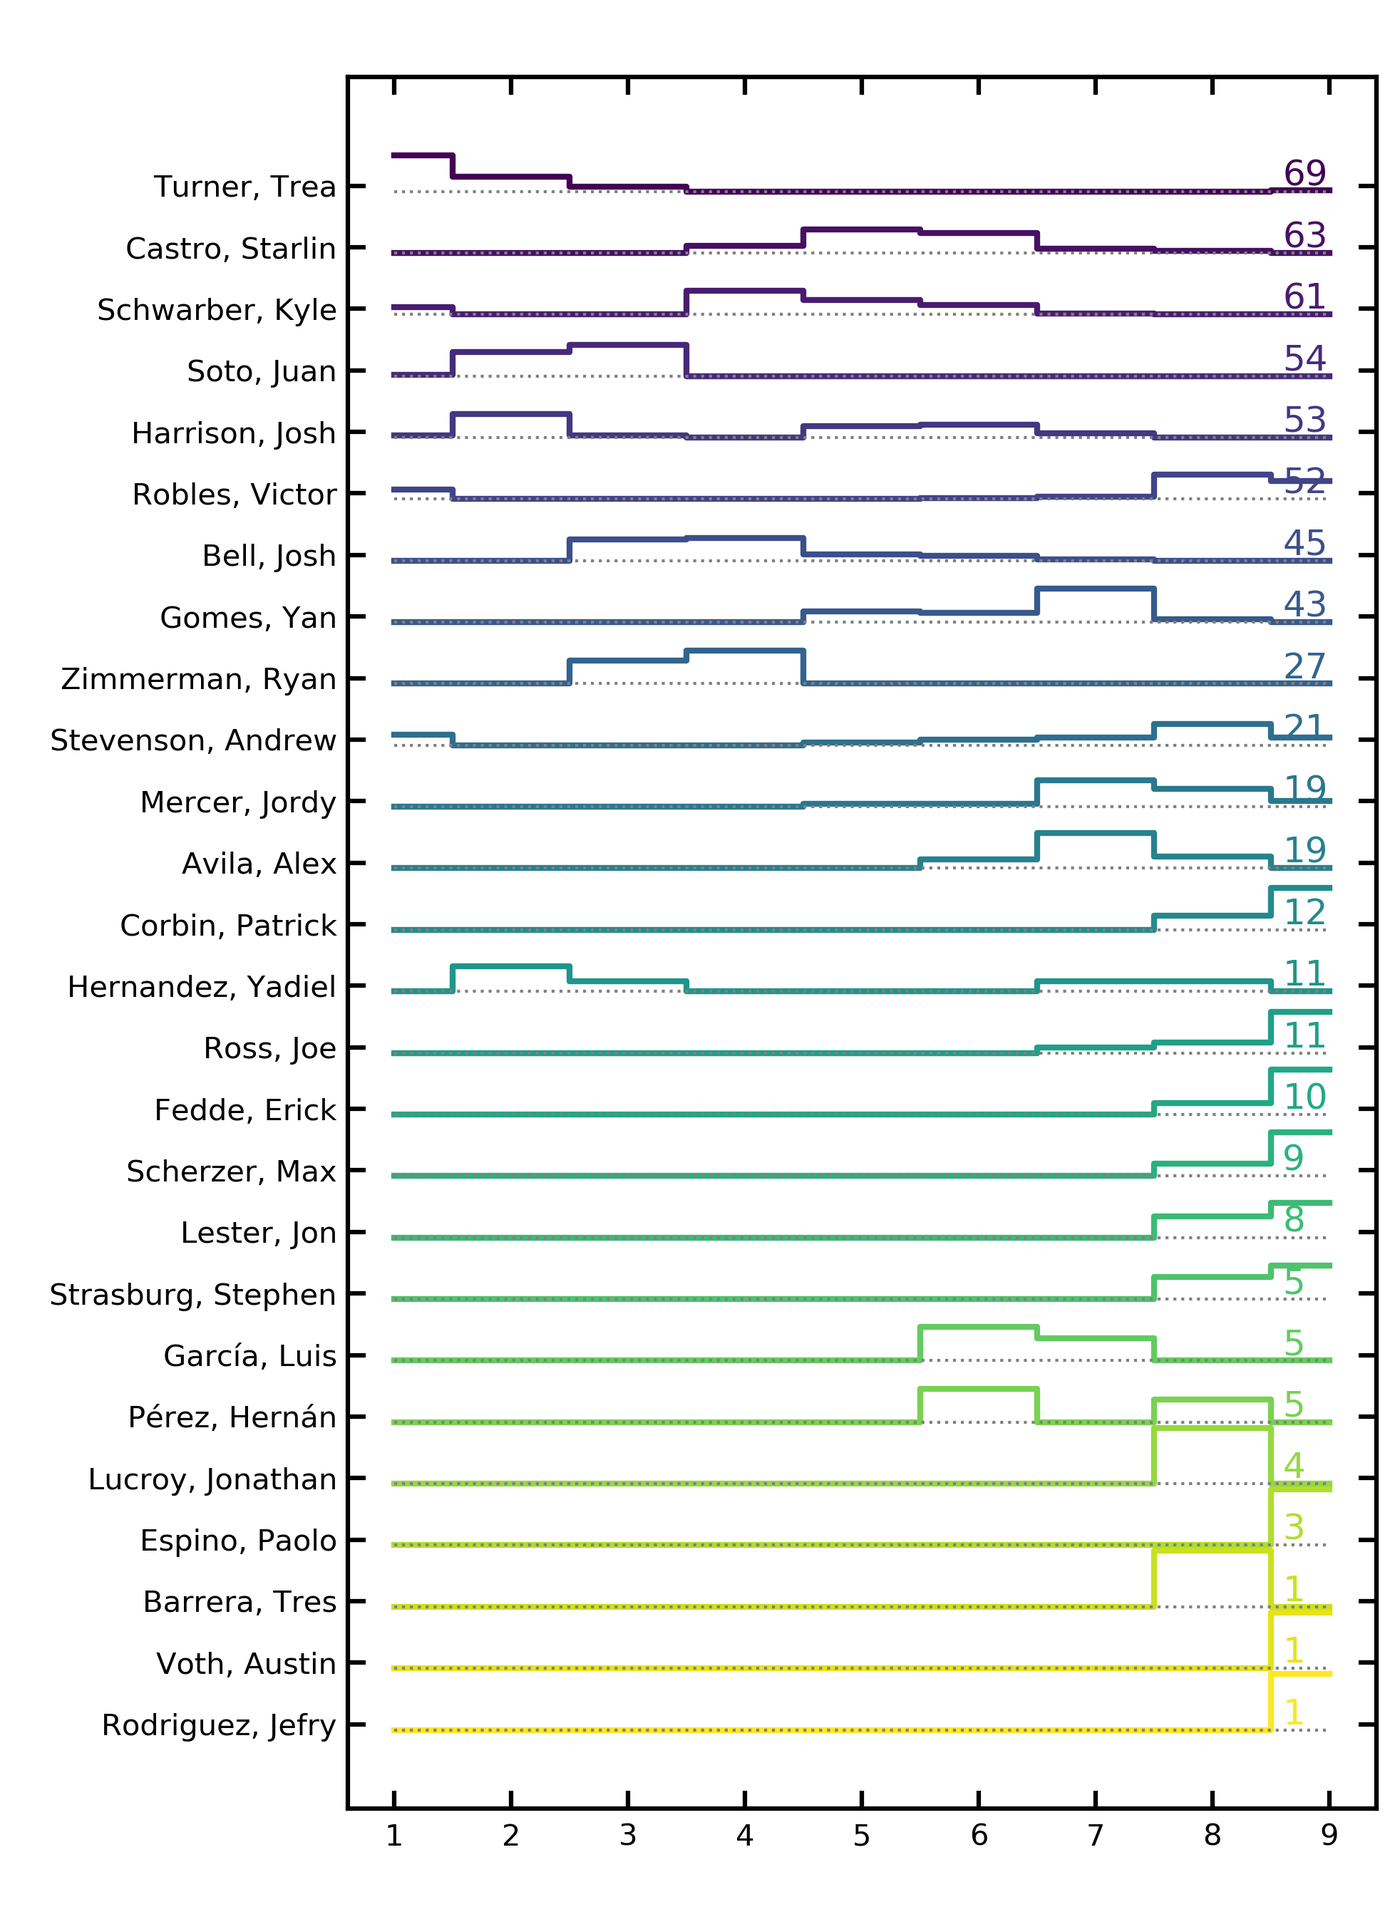
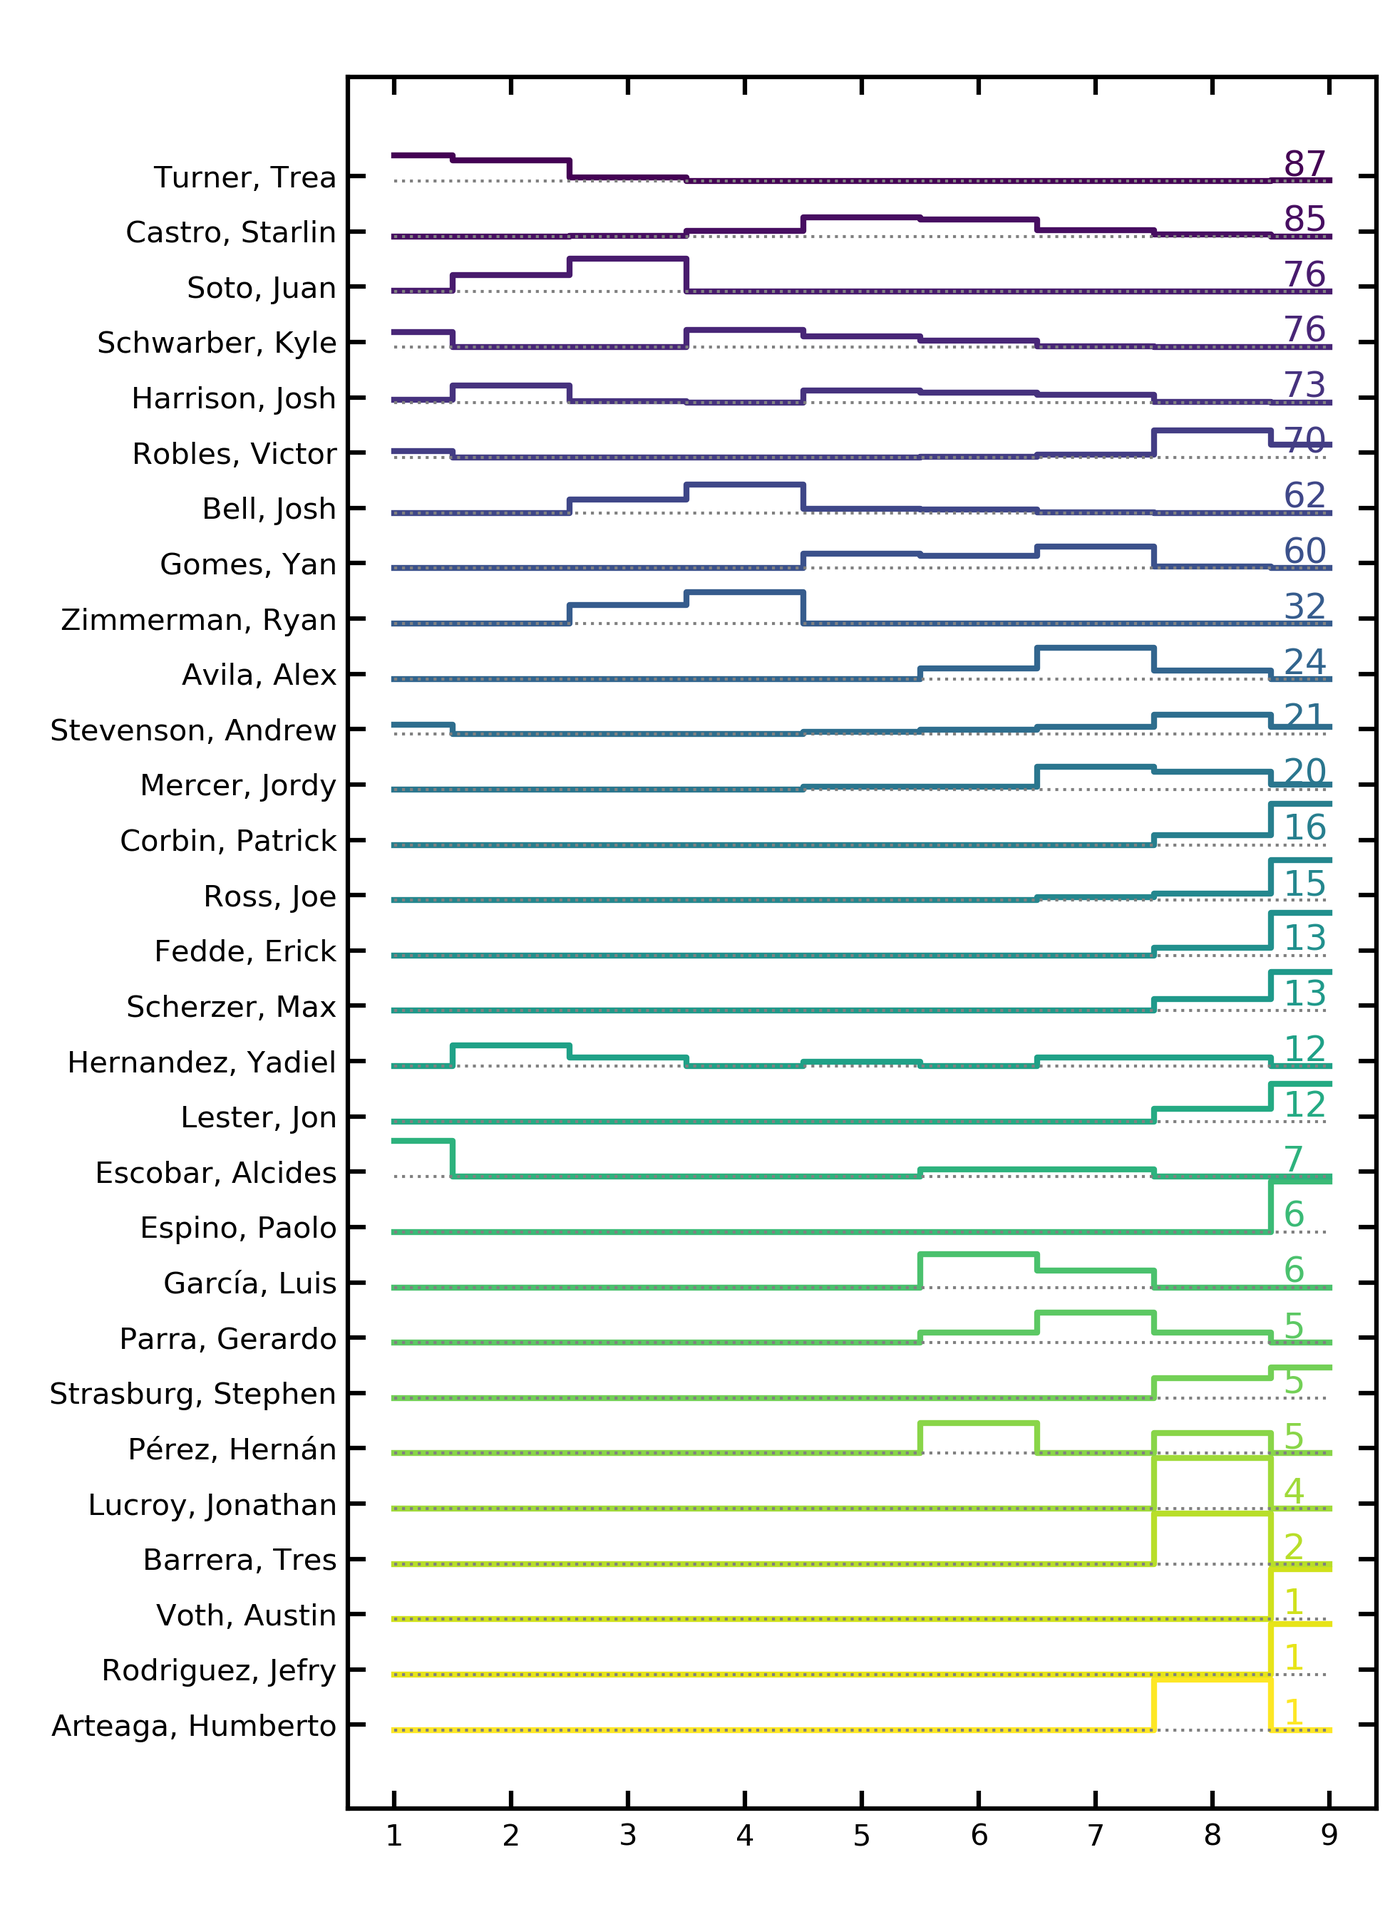
update order calculation

Changed region(s): [[0.0308, 0.0622, 0.9846, 0.9022]]

diff --git a/Lineups/lineup2021.html b/Lineups/lineup2021.html
@@ -26,36 +26,36 @@ document.querySelectorAll('th').forEach(th => th.addEventListener('click', (() =
   <p>For each team, what is the "typical" 2021 lineup?</p>
 <table id="customers">
 <tr><th>Team</th><th>1st</th><th>2nd</th><th>3rd</th><th>4th</th><th>5th</th><th>6th</th><th>7th</th><th>8th</th><th>9th</th><th>Similarity</th><th>First Appeared</th></tr>
-<tr><td><a href="figures/2021LAAorder.png">LAA</a></td><td>Fletcher, David</td><td>Ohtani, Shohei</td><td>Trout, Mike</td><td>Rendon, Anthony</td><td>Walsh, Jared</td><td>Upton, Justin</td><td>Iglesias, José</td><td>Suzuki, Kurt</td><td>Fowler, Dexter</td><td>2.52</td><td>3</td></tr>
-<tr><td><a href="figures/2021HOUorder.png">HOU</a></td><td>Altuve, Jose</td><td>Brantley, Michael</td><td>Bregman, Alex</td><td>Alvarez, Yordan</td><td>Gurriel, Yuli</td><td>Correa, Carlos</td><td>Tucker, Kyle</td><td>Straw, Myles</td><td>Maldonado, Martín</td><td>4.37</td><td>8</td></tr>
-<tr><td><a href="figures/2021OAKorder.png">OAK</a></td><td>Canha, Mark</td><td>Laureano, Ramón</td><td>Olson, Matt</td><td>Murphy, Sean</td><td>Chapman, Matt</td><td>Lowrie, Jed</td><td>Piscotty, Stephen</td><td>Andrus, Elvis</td><td>Kemp, Tony</td><td>2.59</td><td>34</td></tr>
-<tr><td><a href="figures/2021TORorder.png">TOR</a></td><td>Semien, Marcus</td><td>Bichette, Bo</td><td>Guerrero Jr., Vladimir</td><td>Hernández, Teoscar</td><td>Grichuk, Randal</td><td>Gurriel Jr., Lourdes</td><td>Panik, Joe</td><td>Espinal, Santiago</td><td>Jansen, Danny</td><td>4.53</td><td>51</td></tr>
-<tr><td><a href="figures/2021ATLorder.png">ATL</a></td><td>Acuña Jr., Ronald</td><td>Freeman, Freddie</td><td>Ozuna, Marcell</td><td>Albies, Ozzie</td><td>Riley, Austin</td><td>Swanson, Dansby</td><td>Contreras, William</td><td>Heredia, Guillermo</td><td>Fried, Max</td><td>3.52</td><td>48</td></tr>
-<tr><td><a href="figures/2021MILorder.png">MIL</a></td><td>Wong, Kolten</td><td>Vogelbach, Daniel</td><td>Yelich, Christian</td><td>García, Avisaíl</td><td>Narváez, Omar</td><td>Shaw, Travis</td><td>Adames, Willy</td><td>Bradley Jr., Jackie</td><td>Woodruff, Brandon</td><td>1.83</td><td>54</td></tr>
-<tr><td><a href="figures/2021STLorder.png">STL</a></td><td>Edman, Tommy</td><td>Carlson, Dylan</td><td>Goldschmidt, Paul</td><td>Arenado, Nolan</td><td>Molina, Yadier</td><td>O'Neill, Tyler</td><td>Sosa, Edmundo</td><td>Williams, Justin</td><td>Wainwright, Adam</td><td>3.56</td><td>54</td></tr>
-<tr><td><a href="figures/2021CHCorder.png">CHC</a></td><td>Pederson, Joc</td><td>Bryant, Kris</td><td>Báez, Javier</td><td>Rizzo, Anthony</td><td>Contreras, Willson</td><td>Heyward, Jason</td><td>Bote, David</td><td>Sogard, Eric</td><td>Williams, Trevor</td><td>2.06</td><td>34</td></tr>
-<tr><td><a href="figures/2021ARIorder.png">ARI</a></td><td>Rojas, Josh</td><td>Marte, Ketel</td><td>Escobar, Eduardo</td><td>Peralta, David</td><td>Smith, Pavin</td><td>Reddick, Josh</td><td>Ahmed, Nick</td><td>Vogt, Stephen</td><td>Kelly, Merrill</td><td>1.96</td><td>59</td></tr>
-<tr><td><a href="figures/2021LADorder.png">LAD</a></td><td>Betts, Mookie</td><td>Seager, Corey</td><td>Turner, Justin</td><td>Muncy, Max</td><td>Smith, Will</td><td>Taylor, Chris</td><td>Beaty, Matt</td><td>Lux, Gavin</td><td>Buehler, Walker</td><td>2.7</td><td>32</td></tr>
-<tr><td><a href="figures/2021SForder.png">SF</a></td><td>Tauchman, Mike</td><td>Yastrzemski, Mike</td><td>Posey, Buster</td><td>Belt, Brandon</td><td>Longoria, Evan</td><td>Crawford, Brandon</td><td>Flores, Wilmer</td><td>Duggar, Steven</td><td>Gausman, Kevin</td><td>1.39</td><td>38</td></tr>
-<tr><td><a href="figures/2021CLEorder.png">CLE</a></td><td>Hernandez, Cesar</td><td>Rosario, Amed</td><td>Ramírez, José</td><td>Rosario, Eddie</td><td>Reyes, Franmil</td><td>Naylor, Josh</td><td>Bauers, Jake</td><td>Hedges, Austin</td><td>Giménez, Andrés</td><td>3.22</td><td>33</td></tr>
-<tr><td><a href="figures/2021SEAorder.png">SEA</a></td><td>Haniger, Mitch</td><td>France, Ty</td><td>Seager, Kyle</td><td>Lewis, Kyle</td><td>Marmolejos, José</td><td>Moore, Dylan</td><td>Trammell, Taylor</td><td>Murphy, Tom</td><td>Crawford, J.P.</td><td>2.18</td><td>27</td></tr>
-<tr><td><a href="figures/2021MIAorder.png">MIA</a></td><td>Chisholm Jr., Jazz</td><td>Rojas, Miguel</td><td>Aguilar, Jesús</td><td>Duvall, Adam</td><td>Anderson, Brian</td><td>Dickerson, Corey</td><td>León, Sandy</td><td>Sierra, Magneuris</td><td>Rogers, Trevor</td><td>2.05</td><td>47</td></tr>
-<tr><td><a href="figures/2021NYMorder.png">NYM</a></td><td>McNeil, Jeff</td><td>Lindor, Francisco</td><td>Conforto, Michael</td><td>Alonso, Pete</td><td>Smith, Dominic</td><td>Pillar, Kevin</td><td>Villar, Jonathan</td><td>McCann, James</td><td>Walker, Taijuan</td><td>2.25</td><td>28</td></tr>
-<tr><td><a href="figures/2021WSHorder.png">WSH</a></td><td>Turner, Trea</td><td>Soto, Juan</td><td>Bell, Josh</td><td>Schwarber, Kyle</td><td>Harrison, Josh</td><td>Castro, Starlin</td><td>Gomes, Yan</td><td>Robles, Victor</td><td>Ross, Joe</td><td>2.1</td><td>14</td></tr>
-<tr><td><a href="figures/2021BALorder.png">BAL</a></td><td>Mullins, Cedric</td><td>Mancini, Trey</td><td>Santander, Anthony</td><td>Mountcastle, Ryan</td><td>Hays, Austin</td><td>Galvis, Freddy</td><td>Franco, Maikel</td><td>Severino, Pedro</td><td>Valaika, Pat</td><td>2.44</td><td>62</td></tr>
-<tr><td><a href="figures/2021SDorder.png">SD</a></td><td>Pham, Tommy</td><td>Tatis Jr., Fernando</td><td>Machado, Manny</td><td>Hosmer, Eric</td><td>Myers, Wil</td><td>Cronenworth, Jake</td><td>Profar, Jurickson</td><td>Caratini, Victor</td><td>Darvish, Yu</td><td>2.13</td><td>1</td></tr>
-<tr><td><a href="figures/2021PHIorder.png">PHI</a></td><td>McCutchen, Andrew</td><td>Hoskins, Rhys</td><td>Harper, Bryce</td><td>Realmuto, J.T.</td><td>Bohm, Alec</td><td>Gregorius, Didi</td><td>Segura, Jean</td><td>Quinn, Roman</td><td>Wheeler, Zack</td><td>2.2</td><td>2</td></tr>
-<tr><td><a href="figures/2021PITorder.png">PIT</a></td><td>Frazier, Adam</td><td>Evans, Phillip</td><td>Reynolds, Bryan</td><td>Moran, Colin</td><td>González, Erik</td><td>Polanco, Gregory</td><td>Stallings, Jacob</td><td>Fowler, Dustin</td><td>Brubaker, JT</td><td>2.72</td><td>4</td></tr>
-<tr><td><a href="figures/2021TEXorder.png">TEX</a></td><td>Calhoun, Willie</td><td>Solak, Nick</td><td>Lowe, Nate</td><td>Gallo, Joey</td><td>García, Adolis</td><td>Dahl, David</td><td>Kiner-Falefa, Isiah</td><td>Culberson, Charlie</td><td>Trevino, Jose</td><td>2.01</td><td>30</td></tr>
-<tr><td><a href="figures/2021TBorder.png">TB</a></td><td>Arozarena, Randy</td><td>Margot, Manuel</td><td>Meadows, Austin</td><td>Díaz, Yandy</td><td>Brosseau, Mike</td><td>Wendle, Joey</td><td>Zunino, Mike</td><td>Adames, Willy</td><td>Phillips, Brett</td><td>1.52</td><td>34</td></tr>
-<tr><td><a href="figures/2021BOSorder.png">BOS</a></td><td>Hernández, Enrique</td><td>Verdugo, Alex</td><td>Martinez, J.D.</td><td>Bogaerts, Xander</td><td>Devers, Rafael</td><td>Vázquez, Christian</td><td>Gonzalez, Marwin</td><td>Renfroe, Hunter</td><td>Dalbec, Bobby</td><td>4.17</td><td>26</td></tr>
-<tr><td><a href="figures/2021CINorder.png">CIN</a></td><td>Winker, Jesse</td><td>Castellanos, Nick</td><td>Votto, Joey</td><td>Suárez, Eugenio</td><td>Naquin, Tyler</td><td>India, Jonathan</td><td>Barnhart, Tucker</td><td>Farmer, Kyle</td><td>Miley, Wade</td><td>1.93</td><td>18</td></tr>
-<tr><td><a href="figures/2021COLorder.png">COL</a></td><td>Tapia, Raimel</td><td>McMahon, Ryan</td><td>Story, Trevor</td><td>Blackmon, Charlie</td><td>Cron, C.J.</td><td>Daza, Yonathan</td><td>Hampson, Garrett</td><td>Nuñez, Dom</td><td>Márquez, Germán</td><td>2.26</td><td>19</td></tr>
-<tr><td><a href="figures/2021KCorder.png">KC</a></td><td>Merrifield, Whit</td><td>Santana, Carlos</td><td>Benintendi, Andrew</td><td>Perez, Salvador</td><td>Soler, Jorge</td><td>Dozier, Hunter</td><td>Gutierrez, Kelvin</td><td>Taylor, Michael A.</td><td>Lopez, Nicky</td><td>3.84</td><td>61</td></tr>
-<tr><td><a href="figures/2021DETorder.png">DET</a></td><td>Grossman, Robbie</td><td>Castro, Harold</td><td>Candelario, Jeimer</td><td>Cabrera, Miguel</td><td>Mazara, Nomar</td><td>Schoop, Jonathan</td><td>Goodrum, Niko</td><td>Castro, Willi</td><td>Rogers, Jake</td><td>2.28</td><td>35</td></tr>
-<tr><td><a href="figures/2021MINorder.png">MIN</a></td><td>Arraez, Luis</td><td>Donaldson, Josh</td><td>Cruz, Nelson</td><td>Kepler, Max</td><td>Polanco, Jorge</td><td>Larnach, Trevor</td><td>Astudillo, Willians</td><td>Simmons, Andrelton</td><td>Rortvedt, Ben</td><td>2.0</td><td>34</td></tr>
-<tr><td><a href="figures/2021CWSorder.png">CWS</a></td><td>Anderson, Tim</td><td>Eaton, Adam</td><td>Moncada, Yoán</td><td>Abreu, José</td><td>Mercedes, Yermín</td><td>Grandal, Yasmani</td><td>Vaughn, Andrew</td><td>García, Leury</td><td>Madrigal, Nick</td><td>3.26</td><td>34</td></tr>
-<tr><td><a href="figures/2021NYYorder.png">NYY</a></td><td>LeMahieu, DJ</td><td>Stanton, Giancarlo</td><td>Judge, Aaron</td><td>Urshela, Gio</td><td>Torres, Gleyber</td><td>Odor, Rougned</td><td>Andújar, Miguel</td><td>Higashioka, Kyle</td><td>Gardner, Brett</td><td>2.59</td><td>55</td></tr>
+<tr><td><a href="figures/2021LAAorder.png">LAA</a></td><td>Fletcher, David</td><td>Ohtani, Shohei</td><td>Trout, Mike</td><td>Rendon, Anthony</td><td>Walsh, Jared</td><td>Upton, Justin</td><td>Iglesias, José</td><td>Suzuki, Kurt</td><td>Fowler, Dexter</td><td>2.45</td><td>3</td></tr>
+<tr><td><a href="figures/2021HOUorder.png">HOU</a></td><td>Altuve, Jose</td><td>Brantley, Michael</td><td>Bregman, Alex</td><td>Alvarez, Yordan</td><td>Gurriel, Yuli</td><td>Correa, Carlos</td><td>Tucker, Kyle</td><td>Straw, Myles</td><td>Maldonado, Martín</td><td>3.86</td><td>8</td></tr>
+<tr><td><a href="figures/2021OAKorder.png">OAK</a></td><td>Canha, Mark</td><td>Laureano, Ramón</td><td>Olson, Matt</td><td>Murphy, Sean</td><td>Chapman, Matt</td><td>Lowrie, Jed</td><td>Piscotty, Stephen</td><td>Andrus, Elvis</td><td>Kemp, Tony</td><td>2.32</td><td>34</td></tr>
+<tr><td><a href="figures/2021TORorder.png">TOR</a></td><td>Semien, Marcus</td><td>Bichette, Bo</td><td>Guerrero Jr., Vladimir</td><td>Hernández, Teoscar</td><td>Grichuk, Randal</td><td>Biggio, Cavan</td><td>Gurriel Jr., Lourdes</td><td>Panik, Joe</td><td>McGuire, Reese</td><td>4.23</td><td>29</td></tr>
+<tr><td><a href="figures/2021ATLorder.png">ATL</a></td><td>Acuña Jr., Ronald</td><td>Freeman, Freddie</td><td>Ozuna, Marcell</td><td>Albies, Ozzie</td><td>Riley, Austin</td><td>Swanson, Dansby</td><td>Contreras, William</td><td>Heredia, Guillermo</td><td>Morton, Charlie</td><td>3.34</td><td>44</td></tr>
+<tr><td><a href="figures/2021MILorder.png">MIL</a></td><td>Wong, Kolten</td><td>Vogelbach, Daniel</td><td>Yelich, Christian</td><td>García, Avisaíl</td><td>Narváez, Omar</td><td>Adames, Willy</td><td>Urías, Luis</td><td>Bradley Jr., Jackie</td><td>Peralta, Freddy</td><td>1.66</td><td>76</td></tr>
+<tr><td><a href="figures/2021STLorder.png">STL</a></td><td>Edman, Tommy</td><td>Carlson, Dylan</td><td>Goldschmidt, Paul</td><td>Arenado, Nolan</td><td>Molina, Yadier</td><td>O'Neill, Tyler</td><td>Sosa, Edmundo</td><td>Williams, Justin</td><td>Wainwright, Adam</td><td>3.23</td><td>54</td></tr>
+<tr><td><a href="figures/2021CHCorder.png">CHC</a></td><td>Pederson, Joc</td><td>Bryant, Kris</td><td>Báez, Javier</td><td>Rizzo, Anthony</td><td>Contreras, Willson</td><td>Happ, Ian</td><td>Heyward, Jason</td><td>Alcántara, Sergio</td><td>Hendricks, Kyle</td><td>1.99</td><td>65</td></tr>
+<tr><td><a href="figures/2021ARIorder.png">ARI</a></td><td>Rojas, Josh</td><td>Marte, Ketel</td><td>Escobar, Eduardo</td><td>Peralta, David</td><td>Smith, Pavin</td><td>Reddick, Josh</td><td>Ahmed, Nick</td><td>Vogt, Stephen</td><td>Kelly, Merrill</td><td>1.89</td><td>59</td></tr>
+<tr><td><a href="figures/2021LADorder.png">LAD</a></td><td>Betts, Mookie</td><td>Seager, Corey</td><td>Turner, Justin</td><td>Bellinger, Cody</td><td>Muncy, Max</td><td>Taylor, Chris</td><td>Lux, Gavin</td><td>Barnes, Austin</td><td>Kershaw, Clayton</td><td>2.68</td><td>1</td></tr>
+<tr><td><a href="figures/2021SForder.png">SF</a></td><td>Wade Jr, LaMonte</td><td>Yastrzemski, Mike</td><td>Posey, Buster</td><td>Belt, Brandon</td><td>Crawford, Brandon</td><td>Flores, Wilmer</td><td>Duggar, Steven</td><td>Vosler, Jason</td><td>Cueto, Johnny</td><td>1.38</td><td>71</td></tr>
+<tr><td><a href="figures/2021CLEorder.png">CLE</a></td><td>Hernandez, Cesar</td><td>Rosario, Amed</td><td>Ramírez, José</td><td>Rosario, Eddie</td><td>Reyes, Franmil</td><td>Naylor, Josh</td><td>Bauers, Jake</td><td>Hedges, Austin</td><td>Giménez, Andrés</td><td>2.94</td><td>33</td></tr>
+<tr><td><a href="figures/2021SEAorder.png">SEA</a></td><td>Crawford, J.P.</td><td>Haniger, Mitch</td><td>Seager, Kyle</td><td>France, Ty</td><td>Fraley, Jake</td><td>Moore, Dylan</td><td>Bauers, Jake</td><td>Murphy, Tom</td><td>Trammell, Taylor</td><td>2.23</td><td>66</td></tr>
+<tr><td><a href="figures/2021MIAorder.png">MIA</a></td><td>Chisholm Jr., Jazz</td><td>Marte, Starling</td><td>Aguilar, Jesús</td><td>Duvall, Adam</td><td>Rojas, Miguel</td><td>Sánchez, Jesús</td><td>Alfaro, Jorge</td><td>Berti, Jon</td><td>Rogers, Trevor</td><td>2.15</td><td>74</td></tr>
+<tr><td><a href="figures/2021NYMorder.png">NYM</a></td><td>McNeil, Jeff</td><td>Lindor, Francisco</td><td>Conforto, Michael</td><td>Alonso, Pete</td><td>Smith, Dominic</td><td>Pillar, Kevin</td><td>Villar, Jonathan</td><td>McCann, James</td><td>Walker, Taijuan</td><td>2.46</td><td>28</td></tr>
+<tr><td><a href="figures/2021WSHorder.png">WSH</a></td><td>Turner, Trea</td><td>Harrison, Josh</td><td>Soto, Juan</td><td>Bell, Josh</td><td>Schwarber, Kyle</td><td>Castro, Starlin</td><td>Avila, Alex</td><td>Robles, Victor</td><td>Ross, Joe</td><td>2.1</td><td>56</td></tr>
+<tr><td><a href="figures/2021BALorder.png">BAL</a></td><td>Mullins, Cedric</td><td>Mancini, Trey</td><td>Santander, Anthony</td><td>Mountcastle, Ryan</td><td>Hays, Austin</td><td>Galvis, Freddy</td><td>Franco, Maikel</td><td>Severino, Pedro</td><td>Valaika, Pat</td><td>2.45</td><td>62</td></tr>
+<tr><td><a href="figures/2021SDorder.png">SD</a></td><td>Pham, Tommy</td><td>Machado, Manny</td><td>Cronenworth, Jake</td><td>Tatis Jr., Fernando</td><td>Hosmer, Eric</td><td>Myers, Wil</td><td>Profar, Jurickson</td><td>Caratini, Victor</td><td>Paddack, Chris</td><td>2.22</td><td>56</td></tr>
+<tr><td><a href="figures/2021PHIorder.png">PHI</a></td><td>McCutchen, Andrew</td><td>Hoskins, Rhys</td><td>Harper, Bryce</td><td>Realmuto, J.T.</td><td>Bohm, Alec</td><td>Gregorius, Didi</td><td>Segura, Jean</td><td>Quinn, Roman</td><td>Wheeler, Zack</td><td>1.99</td><td>2</td></tr>
+<tr><td><a href="figures/2021PITorder.png">PIT</a></td><td>Frazier, Adam</td><td>Hayes, Ke'Bryan</td><td>Reynolds, Bryan</td><td>Moran, Colin</td><td>Stallings, Jacob</td><td>Polanco, Gregory</td><td>Newman, Kevin</td><td>Tom, Ka'ai</td><td>Kuhl, Chad</td><td>2.76</td><td>69</td></tr>
+<tr><td><a href="figures/2021TEXorder.png">TEX</a></td><td>Kiner-Falefa, Isiah</td><td>Solak, Nick</td><td>Lowe, Nate</td><td>Gallo, Joey</td><td>García, Adolis</td><td>Davis, Khris</td><td>Dahl, David</td><td>Culberson, Charlie</td><td>Trevino, Jose</td><td>1.94</td><td>42</td></tr>
+<tr><td><a href="figures/2021TBorder.png">TB</a></td><td>Arozarena, Randy</td><td>Margot, Manuel</td><td>Meadows, Austin</td><td>Díaz, Yandy</td><td>Brosseau, Mike</td><td>Wendle, Joey</td><td>Zunino, Mike</td><td>Adames, Willy</td><td>Phillips, Brett</td><td>1.4</td><td>34</td></tr>
+<tr><td><a href="figures/2021BOSorder.png">BOS</a></td><td>Hernández, Enrique</td><td>Verdugo, Alex</td><td>Martinez, J.D.</td><td>Bogaerts, Xander</td><td>Devers, Rafael</td><td>Renfroe, Hunter</td><td>Gonzalez, Marwin</td><td>Vázquez, Christian</td><td>Dalbec, Bobby</td><td>4.25</td><td>1</td></tr>
+<tr><td><a href="figures/2021CINorder.png">CIN</a></td><td>India, Jonathan</td><td>Winker, Jesse</td><td>Castellanos, Nick</td><td>Votto, Joey</td><td>Naquin, Tyler</td><td>Suárez, Eugenio</td><td>Barnhart, Tucker</td><td>Farmer, Kyle</td><td>Mahle, Tyler</td><td>2.01</td><td>86</td></tr>
+<tr><td><a href="figures/2021COLorder.png">COL</a></td><td>Tapia, Raimel</td><td>Daza, Yonathan</td><td>Story, Trevor</td><td>Blackmon, Charlie</td><td>Cron, C.J.</td><td>Rodgers, Brendan</td><td>Fuentes, Joshua</td><td>Nuñez, Dom</td><td>González, Chi Chi</td><td>2.33</td><td>75</td></tr>
+<tr><td><a href="figures/2021KCorder.png">KC</a></td><td>Merrifield, Whit</td><td>Santana, Carlos</td><td>Benintendi, Andrew</td><td>Perez, Salvador</td><td>Soler, Jorge</td><td>Dozier, Hunter</td><td>Gutierrez, Kelvin</td><td>Taylor, Michael A.</td><td>Lopez, Nicky</td><td>3.81</td><td>61</td></tr>
+<tr><td><a href="figures/2021DETorder.png">DET</a></td><td>Grossman, Robbie</td><td>Schoop, Jonathan</td><td>Candelario, Jeimer</td><td>Cabrera, Miguel</td><td>Haase, Eric</td><td>Cameron, Daz</td><td>Goodrum, Niko</td><td>Castro, Willi</td><td>Rogers, Jake</td><td>1.98</td><td>68</td></tr>
+<tr><td><a href="figures/2021MINorder.png">MIN</a></td><td>Arraez, Luis</td><td>Donaldson, Josh</td><td>Polanco, Jorge</td><td>Cruz, Nelson</td><td>Larnach, Trevor</td><td>Sanó, Miguel</td><td>Kepler, Max</td><td>Astudillo, Willians</td><td>Simmons, Andrelton</td><td>2.06</td><td>39</td></tr>
+<tr><td><a href="figures/2021CWSorder.png">CWS</a></td><td>Anderson, Tim</td><td>Eaton, Adam</td><td>Moncada, Yoán</td><td>Abreu, José</td><td>Mercedes, Yermín</td><td>Grandal, Yasmani</td><td>Vaughn, Andrew</td><td>García, Leury</td><td>Madrigal, Nick</td><td>2.88</td><td>34</td></tr>
+<tr><td><a href="figures/2021NYYorder.png">NYY</a></td><td>LeMahieu, DJ</td><td>Stanton, Giancarlo</td><td>Judge, Aaron</td><td>Urshela, Gio</td><td>Torres, Gleyber</td><td>Odor, Rougned</td><td>Andújar, Miguel</td><td>Higashioka, Kyle</td><td>Gardner, Brett</td><td>2.64</td><td>55</td></tr>
 </table>
 </body>
 </html>
